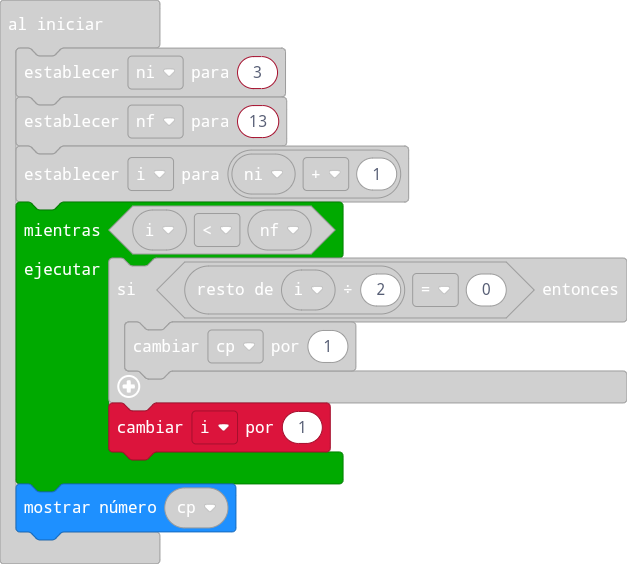
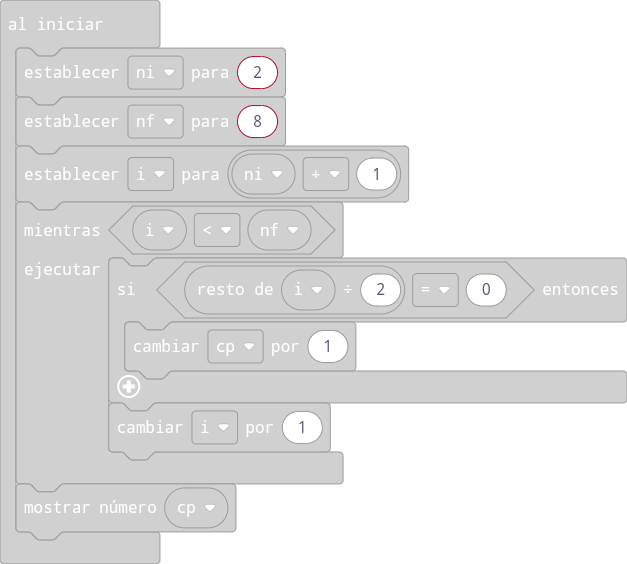
Actualizar main.blocks, main.ts

Changed region(s): [[0.0, 0.3316, 0.5758, 0.9645], [0.3939, 0.1809, 0.4848, 0.2411]]

diff --git a/main.ts b/main.ts
@@ -1,6 +1,6 @@
 let cp = 0
-let ni = 3
-let nf = 13
+let ni = 2
+let nf = 8
 let i = ni + 1
 while (i < nf) {
     if (i % 2 == 0) {
